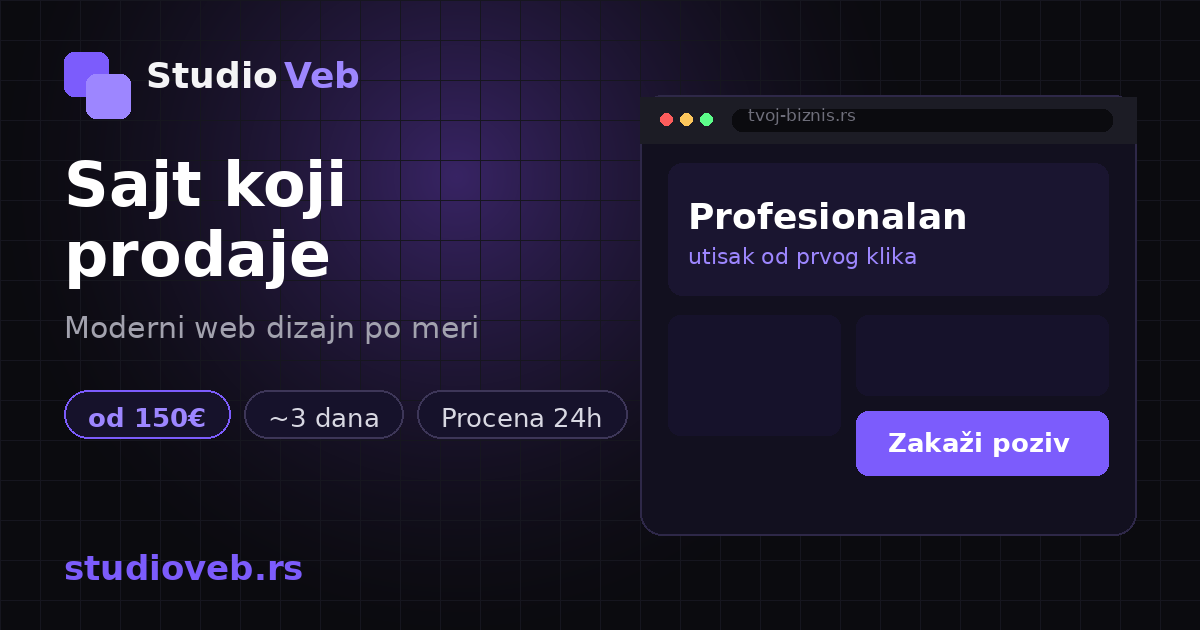
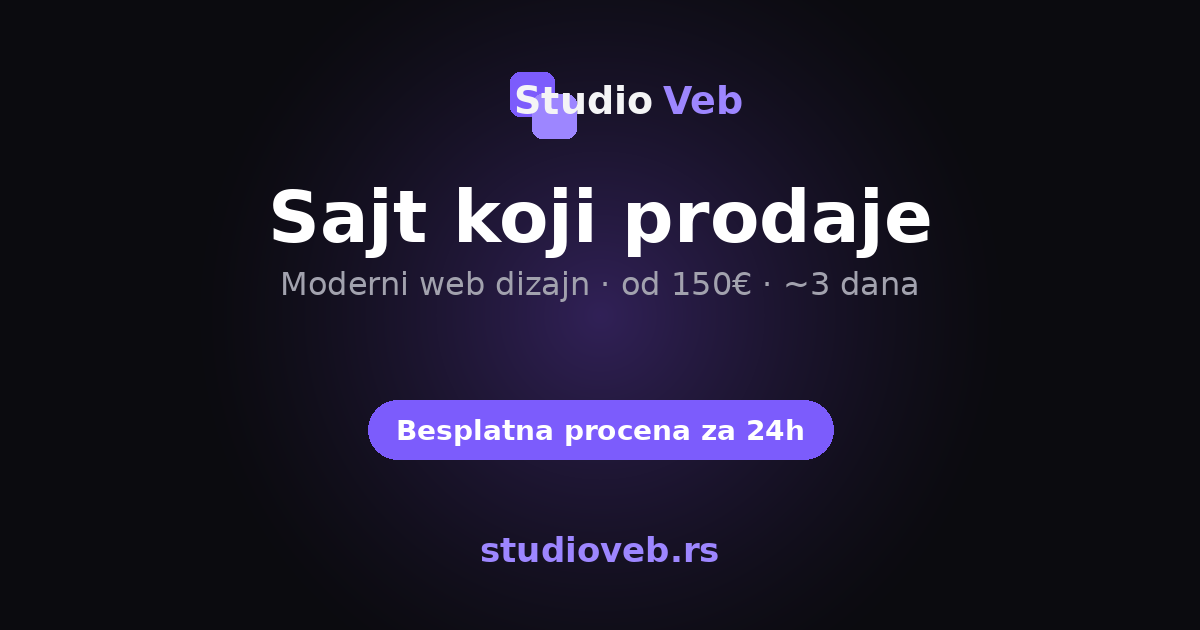
Fix OG image for Facebook: CORP header and centered preview art

diff --git a/index.html b/index.html
@@ -24,7 +24,8 @@
   <meta property="og:locale" content="sr_RS" />
   <meta property="og:locale:alternate" content="en_US" />
   <meta property="og:url" content="https://studioveb.rs/" />
-  <meta property="og:image" content="https://studioveb.rs/assets/og-image.png" />
+  <meta property="og:image" content="https://studioveb.rs/assets/og-image.png?v=3" />
+  <meta property="og:image:secure_url" content="https://studioveb.rs/assets/og-image.png?v=3" />
   <meta property="og:image:type" content="image/png" />
   <meta property="og:image:width" content="1200" />
   <meta property="og:image:height" content="630" />
@@ -32,7 +33,7 @@
   <meta name="twitter:card" content="summary_large_image" />
   <meta name="twitter:title" id="twitterTitle" content="Sajt koji prodaje — od 150€ | Studio Veb" />
   <meta name="twitter:description" id="twitterDescription" content="Izrada modernih responzivnih sajtova za male biznise u Srbiji. Cene od 150€. Besplatna procena u 24h." />
-  <meta name="twitter:image" content="https://studioveb.rs/assets/og-image.png" />
+  <meta name="twitter:image" content="https://studioveb.rs/assets/og-image.png?v=3" />
 
   <link rel="canonical" href="https://studioveb.rs/" id="canonicalLink" />
   <link rel="alternate" hreflang="sr" href="https://studioveb.rs/" id="hreflangSr" />
@@ -73,7 +74,7 @@
         "inLanguage": "sr-RS",
         "primaryImageOfPage": {
           "@type": "ImageObject",
-          "url": "https://studioveb.rs/assets/og-image.png",
+          "url": "https://studioveb.rs/assets/og-image.png?v=3",
           "width": 1200,
           "height": 630
         }
@@ -85,7 +86,7 @@
         "alternateName": "StudioVeb",
         "description": "Izrada modernih, brzih i responzivnih sajtova po meri za male biznise i preduzetnike u Srbiji.",
         "url": "https://studioveb.rs/",
-        "image": "https://studioveb.rs/assets/og-image.png",
+        "image": "https://studioveb.rs/assets/og-image.png?v=3",
         "logo": "https://studioveb.rs/favicon.svg",
         "email": "ognjen@studioveb.rs",
         "telephone": "+381612892059",

diff --git a/script.js b/script.js
@@ -29,7 +29,7 @@
       "izrada sajtova, web dizajn, sajt po meri, izrada web sajta, web dizajn Srbija, responzivni sajt, landing stranica, SEO, Studio Veb",
     keywordsEn:
       "website design Serbia, custom website, web development, responsive website, landing page, SEO, Studio Veb",
-    ogImagePath: "/assets/og-image.png"
+    ogImagePath: "/assets/og-image.png?v=3"
   };
 
   const seoCfg = () => ({ ...SEO_DEFAULTS, ...(CFG.seo || {}) });
@@ -70,12 +70,13 @@
       document.querySelectorAll('meta[property="og:url"]').forEach((m) => { m.content = home; });
       const ogPath = (s.ogImagePath || "/assets/og-image.png").replace(/^\//, "");
       const ogImg = base + "/" + ogPath;
-      document.querySelectorAll('meta[property="og:image"], meta[name="twitter:image"]').forEach((m) => {
+      document.querySelectorAll('meta[property="og:image"], meta[property="og:image:secure_url"], meta[name="twitter:image"]').forEach((m) => {
         m.content = ogImg;
       });
       const ogType = document.querySelector('meta[property="og:image:type"]');
+      const ogPathClean = ogPath.split("?")[0];
       if (ogType) {
-        ogType.content = ogPath.endsWith(".png") ? "image/png" : ogPath.endsWith(".jpg") || ogPath.endsWith(".jpeg")
+        ogType.content = ogPathClean.endsWith(".png") ? "image/png" : ogPathClean.endsWith(".jpg") || ogPathClean.endsWith(".jpeg")
           ? "image/jpeg"
           : "image/svg+xml";
       }

diff --git a/site-config.example.js b/site-config.example.js
@@ -21,6 +21,6 @@ window.SITE_CONFIG = {
       "izrada sajtova, web dizajn, sajt po meri, izrada web sajta, web dizajn Srbija, responzivni sajt, landing stranica, SEO, Studio Veb",
     keywordsEn:
       "website design Serbia, custom website, web development, responsive website, landing page, SEO, Studio Veb",
-    ogImagePath: "/assets/og-image.png"
+    ogImagePath: "/assets/og-image.png?v=3"
   }
 };

diff --git a/site-config.js b/site-config.js
@@ -39,6 +39,6 @@ window.SITE_CONFIG = {
     keywordsEn:
       "website design Serbia, custom website, web development, responsive website, landing page, SEO, Studio Veb",
     /** Apsolutna putanja do OG slike (PNG 1200×630 preporučeno za Viber/Facebook) */
-    ogImagePath: "/assets/og-image.png"
+    ogImagePath: "/assets/og-image.png?v=3"
   }
 };
